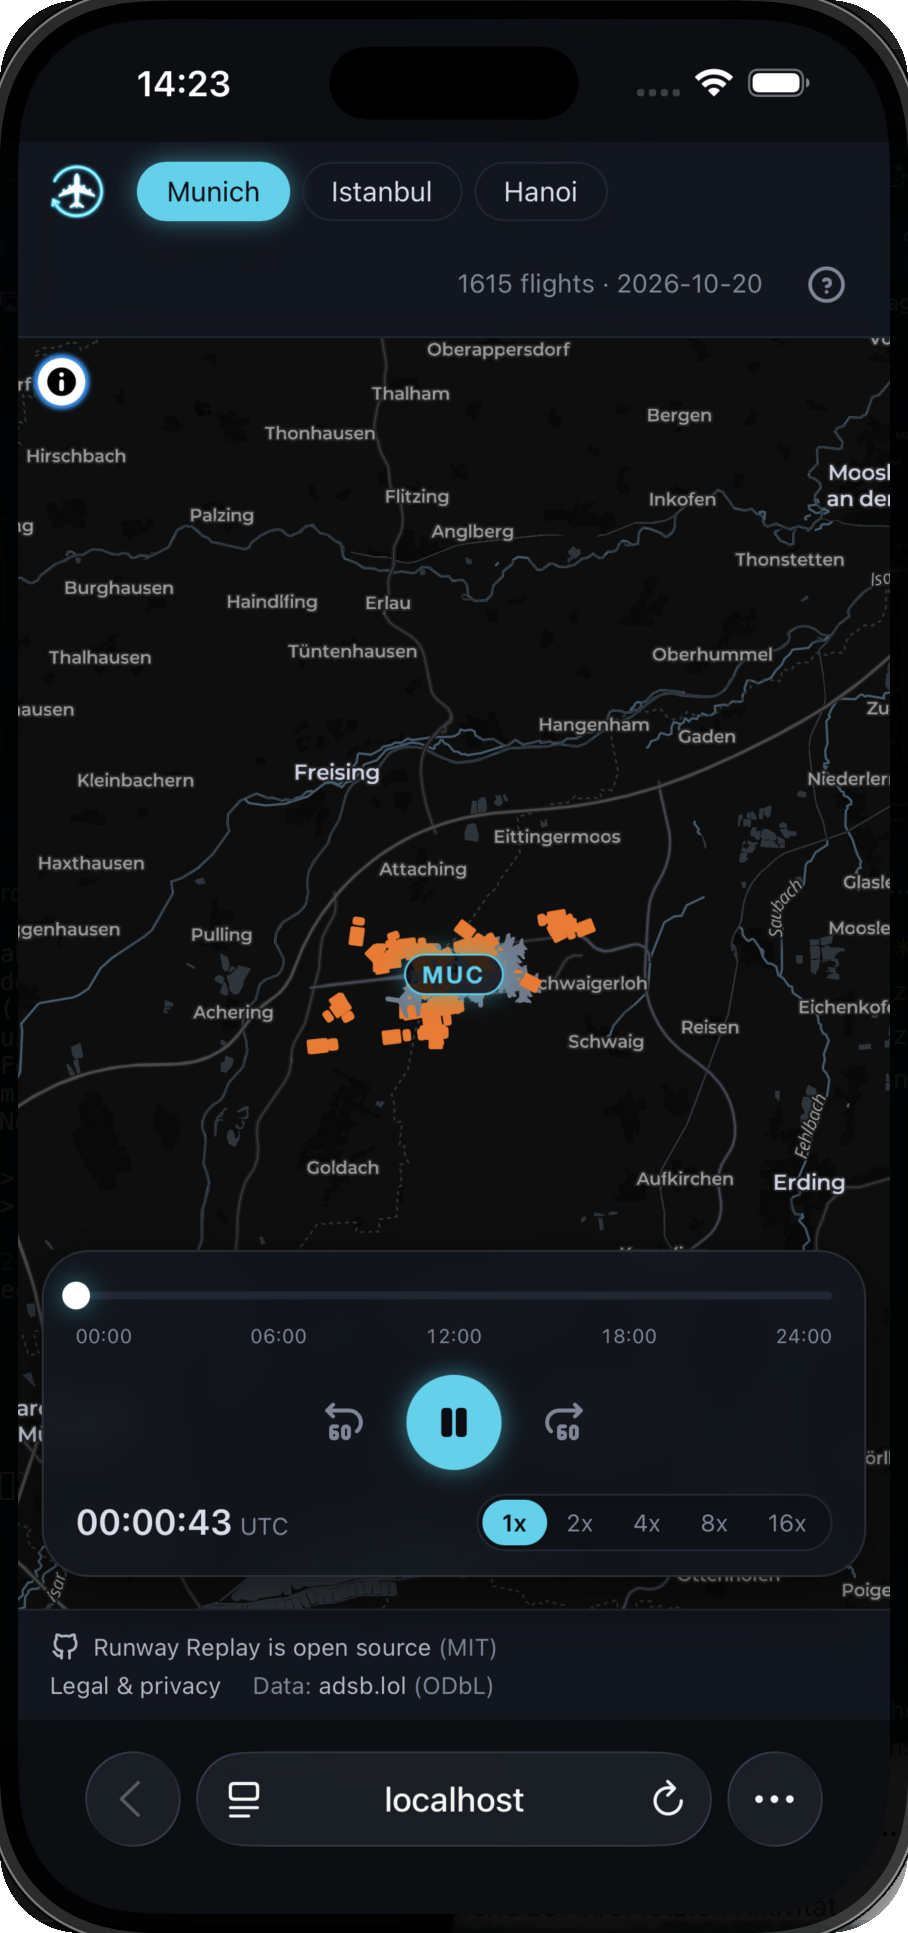
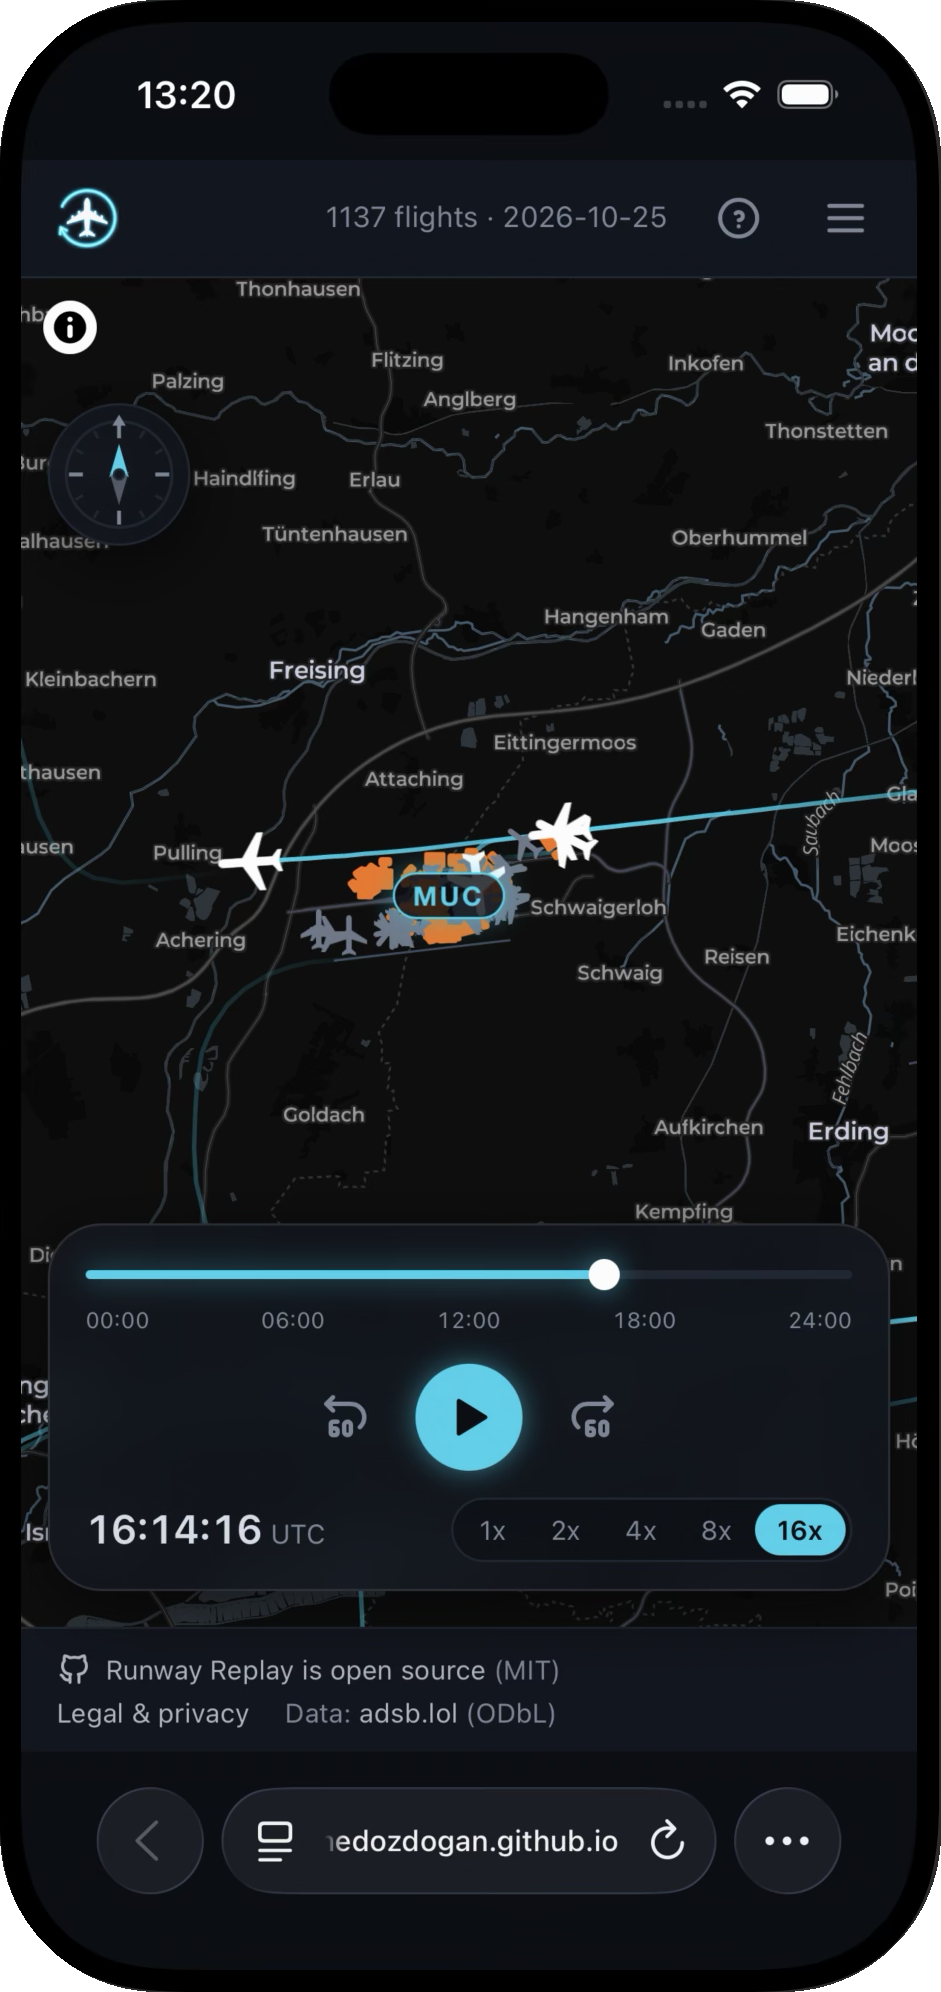
docs: document flight times and the arcade, with fresh screenshots

diff --git a/CONTRIBUTING.md b/CONTRIBUTING.md
@@ -41,21 +41,32 @@ pipeline/                 Python: adsb.lol daily dump -> one .json.gz per airpor
   download.py             stream the dump (never saved to disk)
   filter.py, resample.py  keep points near the airport (with callsign and ADS-B category),
                           split into flights, thin to 5 s
+  routes.py               follow the aircraft through the rest of its day: where it came down,
+                          when, and whether that flight time fits the distance
+  airport_lookup.py       which airport a position is at, from airports_reference.csv (the large
+                          and medium airports of ourairports.com, public domain)
+  write_index.py          index.json for the data branch, listing the days published so far
 web/src/
   main.tsx                React entry point: renders <App /> into index.html's #root
   App.tsx                 page layout and app state (airport, selected plane, follow)
   components/             UI: Header, Footer, AirportPicker, TimeBar, FlightCard, RadioTranscript,
-                          GoAroundBanner, ToggleButton
-  map/                    ReplayMap (MapLibre via react-map-gl), DeckOverlay, deck.gl layers
+                          GoAroundBanner, ToggleButton, ArcadeMenu, GuessDestinationCard
+  map/                    ReplayMap (MapLibre via react-map-gl), DeckOverlay, deck.gl layers, Compass
   hooks/                  usePlayback (clock + keyboard), useFlights (loading), useGoAroundAlert,
-                          useRadioVoice (speaks radio lines with the HD voice)
+                          useRadioVoice (speaks radio lines with the HD voice),
+                          useGuessDestination (the arcade game: rounds, countdown, replay control)
+  arcade/                 one folder per game. guessDestination: pickFlights, destinationsOf,
+                          pickOptions, createRounds, checkDestination, score, dailyPlay — all pure,
+                          so a game can be built and tested without any UI
   flights/                pure flight logic: positions, parking, estimates, go-arounds, ground vehicles,
-                          status text, radio (radio.ts: written/spoken forms, radioScript.ts: conversations)
+                          status text, cabin description, radio (radio.ts: written/spoken forms,
+                          radioScript.ts: conversations)
   sound/                  HD radio voice: Kokoro in a Web Worker (kokoro.worker.ts, kokoroClient.ts),
                           the radio audio effect (radioEffect.ts), and its pure logic (radioVoicePlan.ts)
   data/                   airport list, airline/aircraft/radio names, radio phrases, loading the .json.gz files
   types/                  data types (Flight, Point, Plane, Airport)
-  utils/                  small helpers (formatting, distance, a serial task queue)
+  utils/                  small helpers (formatting, distance, a serial task queue, stable
+                          pseudo-randomness: stableIndex and stableRank)
   assets/                 the header logo in 1x/2x/3x
   style.css               Tailwind import + theme tokens (colours, glow, animation)
 web/tests/unit/           Vitest unit tests, mirroring src/ (flights/, sound/, utils/; e.g.

diff --git a/README.md b/README.md
@@ -23,9 +23,9 @@ No backend, no database, no API keys: one static site and one nightly data file.
 
 **Live demo:** https://ahmedozdogan.github.io/runway-replay/
 
-<img src="docs/screenshot_web.png" alt="Runway Replay replaying Munich airport: neon approach trails, parked planes at the gates, and a flight card showing Lufthansa DLH2XN on approach with its ATC radio transcript">
+<img src="docs/screenshot_web.png" alt="Runway Replay replaying Munich: neon approach trails, parked planes at the gates, a compass, and a flight card showing Air France AFR32DE from Paris on approach with its ATC radio transcript">
 
-<img src="docs/screenshot_mobile.png" alt="Runway Replay on a phone: the same replay with the floating media-player time bar" width="260">
+<img src="docs/screenshot_mobile.png" alt="Runway Replay on a phone: the same replay with the floating media-player time bar and the compass" width="260">
 
 </div>
 
@@ -60,6 +60,12 @@ airport.
   simulated.  The replay slows to 1x while the radio talks.
 - **🔊 HD radio voice (optional)** — switch it on in the radio panel to hear the conversation, spoken
   by the open-source Kokoro voice model running in your browser, through an aircraft-radio filter.
+- **🗺 Where each flight went** — a departure's destination is worked out by following the same
+  aircraft through the rest of the worldwide dump, along with how long it stayed in the air.
+- **🎯 Arcade: guess the destination** — one game a day. A flight leaves, you get a minute and the
+  clues a spotter would use (aircraft, cabin, weight class, time airborne, altitude, heading) to
+  say where it's going, while the replay follows it across the map.
+- **🧭 Compass** — the map rotates with two fingers; the compass turns with it and puts north back.
 - **🩹 Gap filling** — receivers often lose aircraft just above the runway; Runway Replay estimates
   the last bit of the landing or the start of the takeoff roll (and says so on the card).
 - **📱 Works on phones** — the time bar becomes a floating media-player panel.
@@ -150,8 +156,9 @@ cd web && npm run lint && npm test && npm run build
 pipeline/     Python: daily dump → one .json.gz per airport-day
 web/src/
   components/ React UI (Header, Footer, TimeBar, FlightCard, RadioTranscript, …)
-  map/        MapLibre map and deck.gl layers
-  hooks/      playback clock, data loading, go-around alerts, radio voice
+  map/        MapLibre map, deck.gl layers, compass
+  hooks/      playback clock, data loading, go-around alerts, radio voice, the arcade game
+  arcade/     the games, one folder each (guessDestination: rounds, options, scoring)
   flights/    pure flight logic (positions, go-arounds, ground vehicles, radio conversation…)
   sound/      HD radio voice: Kokoro in a Web Worker, aircraft-radio audio effect
   data/       airports, airline and aircraft names, radio phrases

diff --git a/docs/data-format.md b/docs/data-format.md
@@ -93,6 +93,9 @@ through `raw.githubusercontent.com`, so older days can be fetched from there dir
   `ELEKT…` vehicles that drive Munich's runways at night.
 - `origin` and `destination` are `{"icao", "city"}` or `null`: where the aircraft last came
   down before this flight, and where it next came down after it. See "Where a flight went" below.
+- A `destination` also carries `at`, the second of the day it came down there, so the app can say
+  how long the flight took (`at` minus the flight's last point). An `origin` has no equivalent:
+  the day's data says when an aircraft last *landed* at its origin, not when it left again.
 - Ground speed isn't stored; derive it from consecutive points if needed.
 
 ## Which flights belong to this airport
@@ -130,6 +133,15 @@ arrival, and is ignored.
 Measured on 2026-10-22: Munich resolved 87% of its departures, Amsterdam 85%, Heathrow 78%. The
 rest land after midnight UTC, or come down where no receiver sees them — hence `null`, which the
 app has to handle.
+
+A landing is timed from the **start** of that low run, when the aircraft came down through
+4,000 ft. Timing it from the end would be wrong: with ground coverage an aircraft keeps
+transmitting at its stand for hours, which once made a 50-minute hop to Frankfurt look like seven.
+
+Even so, a first landing can be invisible — no gap, no long stand, nobody watching — and the one
+we find is a later leg. So `at` is only written when the flight time **fits the distance**
+(`routes.looks_plausible`: within twice `distance / 800 km/h + 45 min`). Around 95% of resolved
+destinations keep their time; the rest show nothing rather than something wrong.
 
 The airport list is `pipeline/airports_reference.csv`: the large and medium airports from
 [OurAirports](https://ourairports.com/data/) (public domain), trimmed to `icao,city,lat,lon`.
